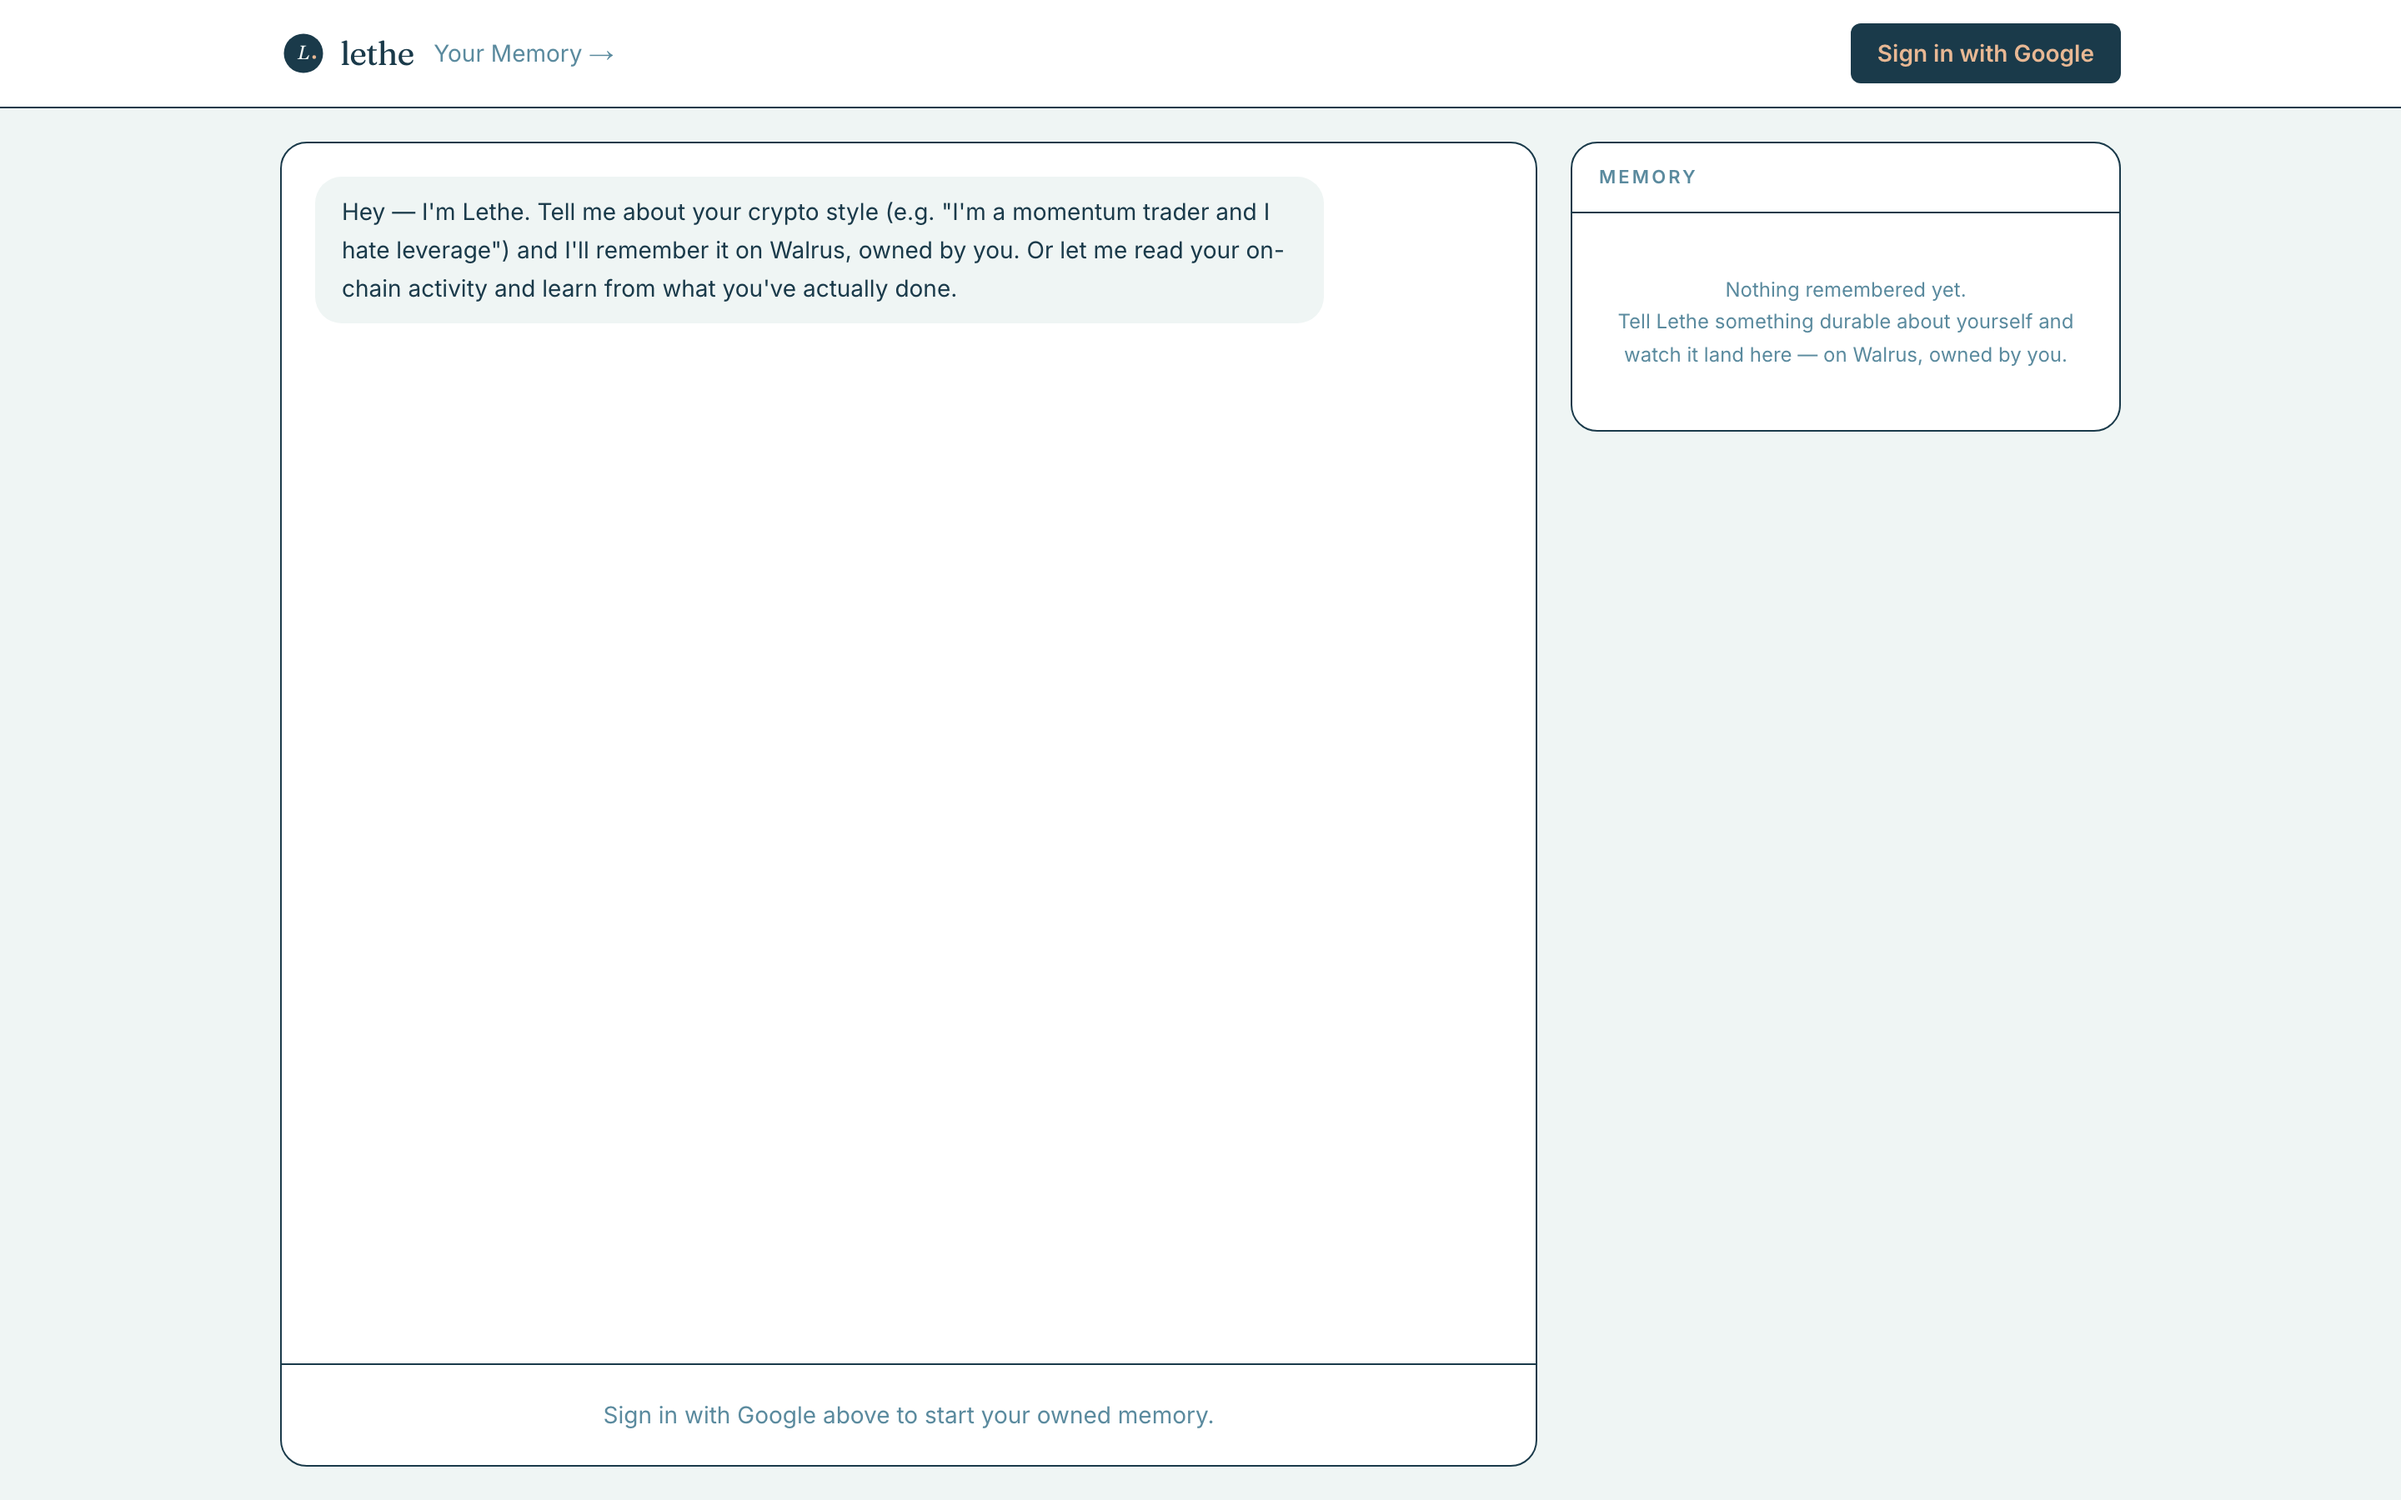
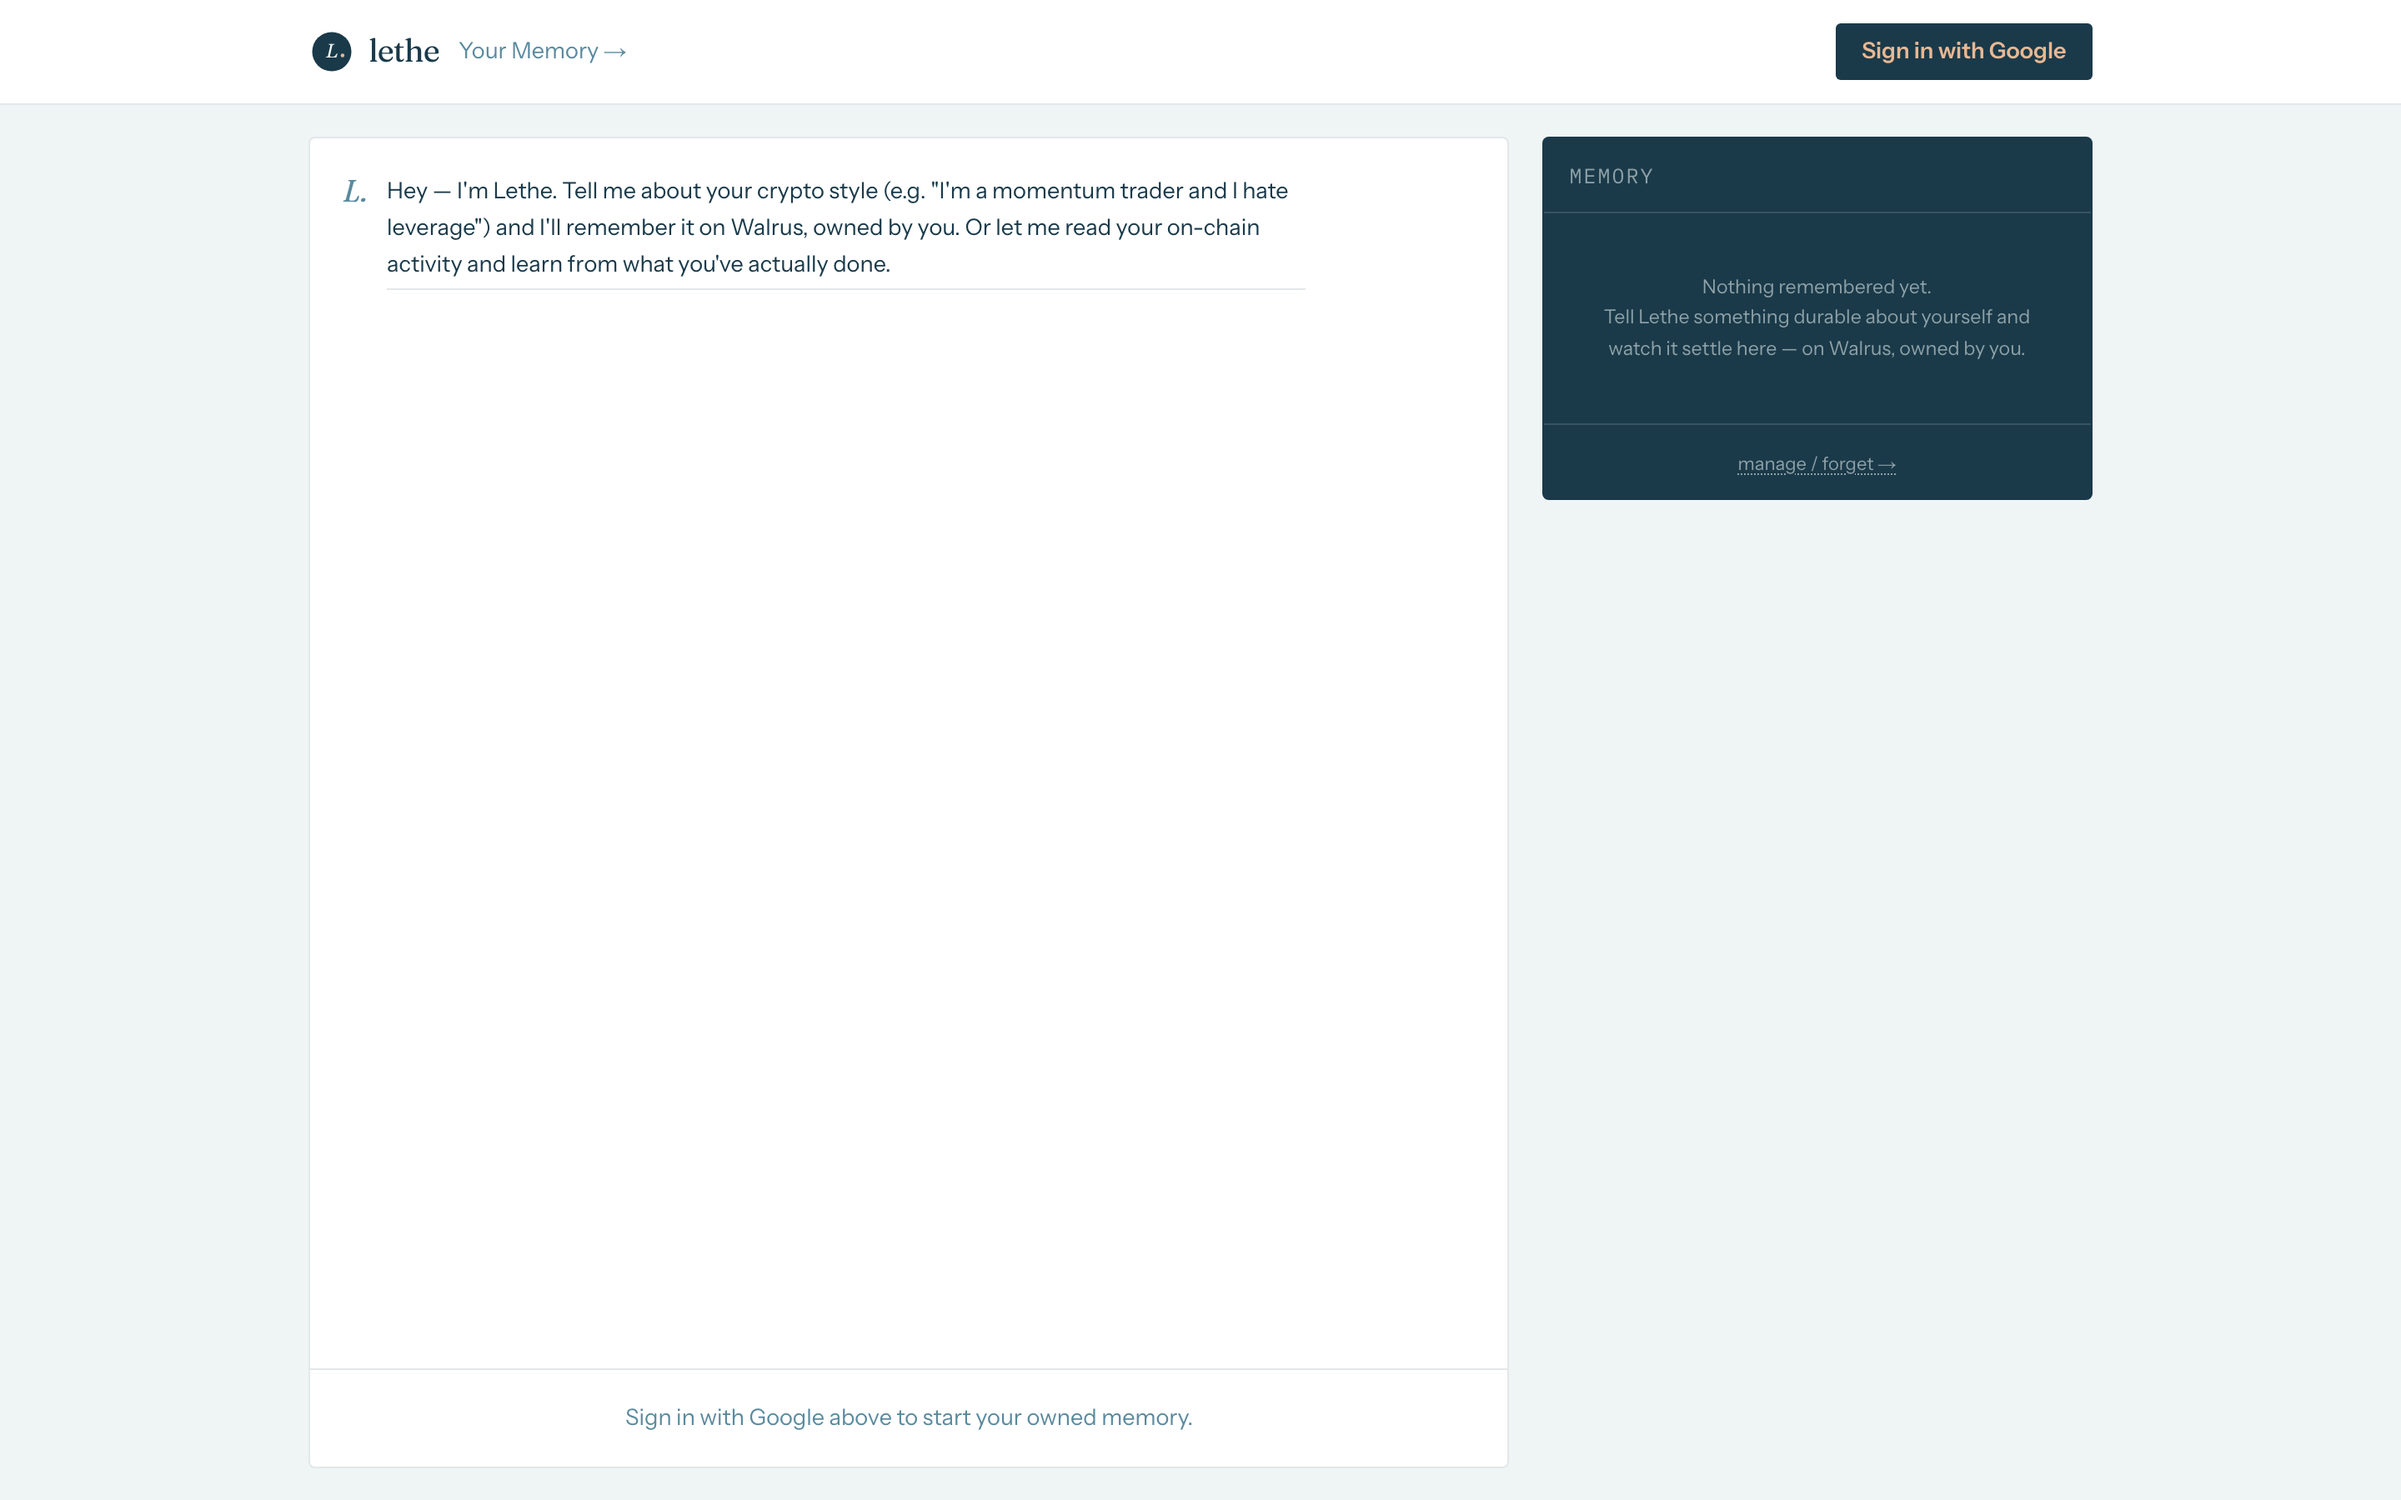
Block 8 Phase 5 + BLOCK 8 REPORT: Seal e2e encryption live in prod — 19/19 prover, all suites green, externally verified

diff --git a/docs/PROGRESS.md b/docs/PROGRESS.md
@@ -1039,3 +1039,43 @@ failing; the page decrypts those with the owner's cached session and merges
 same plumbing as the proven signTransaction path; the one un-automatable
 browser OAuth pass stays on the known-seam list (Vow's hero pass covers it).
 `tsc` clean · `pnpm build` GREEN.
+
+## 2026-06-12 — BLOCK 8, Phase 5 (prover + honest copy + Seal in prod)
+
+Prover: **19/19** (was 16/16) — new `memory_policy_specs::seal_approve_spec`
+proves I5 deny-universality: seal_approve ABORTS for every sender that is
+neither owner nor currently authorized, for ALL identities (with I3 this is
+revoke = key servers stop approving, by proof). The approve direction is not
+expressible externally (`object::id().to_bytes()` is uninterpreted in the
+prover model — two attempts documented) and stays covered by the 6 unit tests.
+Spec gotcha logged: spec params MUST reuse the target's parameter names or the
+prover binds fresh symbols.
+
+Copy now TRUE and shipped: README (browser-side Seal encrypt, e2e claim,
+19/19, roadmap → selective sharing + shared-registry policy), /memory line,
+landing pillar 02. Manual fallback retained + disclosed.
+
+Prod flip: NEXT_PUBLIC_MEMORY_PROVIDER=seal + v3 package id upserted to
+production/preview/development. Deploy lethe-qytlqf2xs… → lethe-gold.vercel.app.
+
+External verify (public URL): 4 routes 200 · Seal key-server config + v3 id
+confirmed inside shipped JS chunks · **Seal-mode write+recall run AGAINST PROD**
+(seal-provider-e2e with E2E_BASE=https://lethe-gold.vercel.app): blob stored
+via prod /api/memory/store, gasless add_entry 83x7NaJ5b1FDgEpQr3Ba2qyEMYAm7sbD2TVAQfkTGAet,
+recall decrypted new + 7 legacy entries · Playwright unauthed desktop+mobile:
+0 console errors, sign-in visible (shoot-prod hero assertion updated for the
+Block 6 verse). Full suite re-run on v3 beforehand: gasless · hero+session-B ·
+forget · pulse · seal-policy · seal-provider · seal-ux — ALL GREEN.
+
+=== LETHE BLOCK 8 REPORT ===
+Phase 1 verdict: SEAL-GO — testnet round-trip ~25 min in. Key server config: verified decentralized testnet server 0xb012378c9f3799fb5b1a7083da74a4069e3c3f1c93de0b27212a5799ce1e1e98, aggregator https://seal-aggregator-testnet.mystenlabs.com, weight 1, threshold 1 (committee 3-of-5 internally), no API key. Spike: 330B ciphertext, decrypt==original, stranger → NoAccessError. Gotcha: SealClient caches derived keys — negative tests need a fresh client.
+@mysten/sui compat: was 2.17.0 ≥ 2.16.2 required — OK, no bump. @mysten/seal@1.1.3 installed; SuiJsonRpcClient exposes .core → SealCompatible.
+Policy + republish: memory::memory_policy (seal_approve: vault-id prefix + owner||authorized, canonical whitelist pattern) · UPGRADE to v3 0x0c79fd944a51153e4d668a4f53a280fe5d0ab6d4db0a572a2f85c11ac5fc2f6c (UpgradeCap held; original id 0x9dcc482c…1331 unchanged, vaults untouched) · Move tests 16/16 (6 new policy tests) · empirical Seal-upgrade semantics: encrypt/Session = ORIGINAL id (SDK hard-requires v1), PTB targets LATEST; key server normalizes. B17: key-server dry-run rejects owned-object inputs for non-owner senders → owner-session decryption everywhere, Pulse keeps server-enforced grants.
+SealProvider: ROUND-TRIPS on testnet AND against prod. extends ManualProvider (grant/revoke/forget untouched); client-side encrypt → /api/memory/store passthrough (server never sees plaintext/keys) → gasless add_entry; recall = aggregator fetch (browser-direct) + batched fetchKeys + decrypt; legacy AES blobs auto-detected → server fallback (old vaults readable).
+UX signing: 0 signatures for writes (gasless untouched, sponsor≠signer verified), EXACTLY 1 per session for reads — measured: remember + 3 recalls (2 parallel) = 1 personal-message signature (sessionStorage TTL 30min + in-memory fallback + in-flight dedupe; first run caught storage-blocked re-signing, fixed). Quiet "unlocking your memories…" rail state; sign-out clears the session key. zkLogin signs silently via Enoki (same plumbing as proven signTransaction).
+Prover: 19/19 (new I5 deny-universality on seal_approve; approve direction covered by unit tests — to_bytes uninterpreted in model).
+Deploy: lethe-qytlqf2xs-vowctminibro-7069s-projects.vercel.app → lethe-gold.vercel.app · prod provider=seal CONFIRMED (key-server config + v3 id in shipped chunks; Seal write+recall executed against the public URL) · / /chat /memory /pulse 200 · Playwright unauthed 0 console errors.
+Copy updated: YES, now true — README "End-to-end encrypted with Seal threshold encryption: even Lethe's servers can't read your memories; decryption requires on-chain policy approval", /memory line, landing pillar; old server-holds-key caveat removed; one-line ManualProvider-fallback note kept; framing everywhere "Lethe USES Seal" (Mysten infra).
+Blockers: B17 (design note, handled — owned vault ⇒ owner-session decrypt; shared-registry policy on roadmap for true third-party app sessions). None blocking. NOTE for Vow: a concurrent root-cleanup lane (PR #1) raced Phase 3 mid-block — recovered, everything merged; PROGRESS/BLOCKERS now live at docs/.
+Recommended next: (1) Vow re-runs the ONE human browser pass on prod in Seal mode (sign-in → chat → watch "unlocking your memories…" → /memory → grant/revoke → /pulse) — the OAuth seam is still the only thing agents can't click. (2) Soft-launch copy/demo can now lead with provable e2e encryption + 19/19. (3) Post-launch: shared-registry policy (kills B17), Seal-gated selective sharing, MemWal ≥0.0.4 adapter.
+=== END REPORT ===
